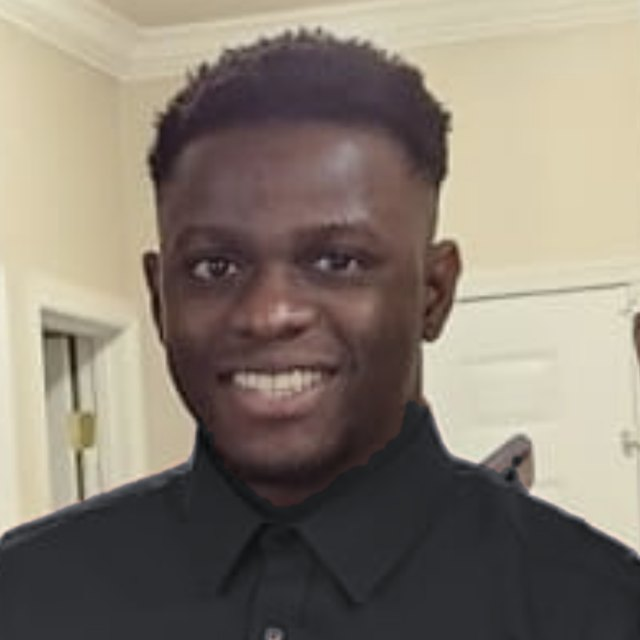
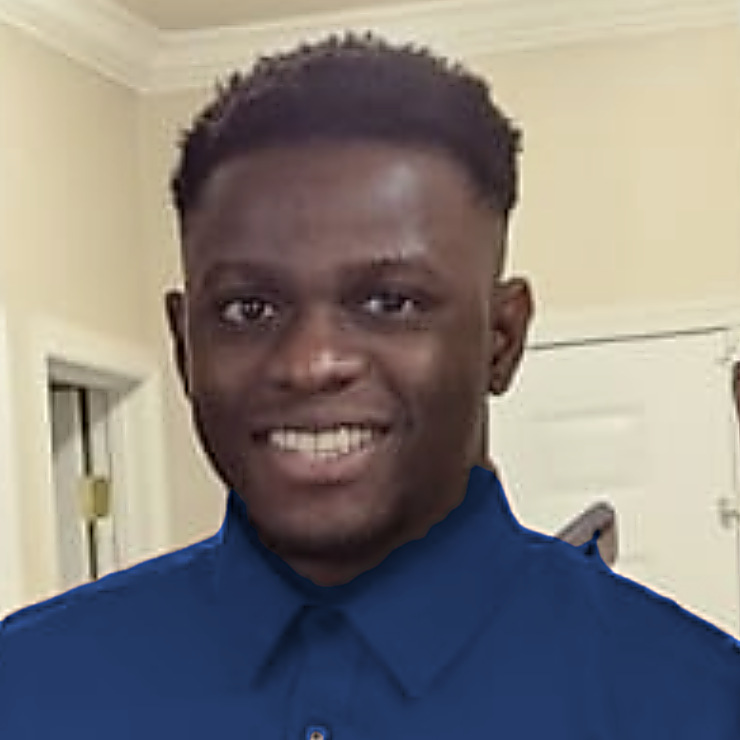
Return to black theme with orange accents; navy shirt; sharper portraits
- Hero and sections back to near-black with orange accents and circuit glow
- Shirt recolored navy (complement of orange) with smoothed, de-fringed edges
- Portraits kept at native resolution, denoised and sharpened, saved at q93 4:4:4

Claude-Session: https://claude.ai/code/session_01Hxmt1xBa9KbF397eNV9xSS

Changed region(s): [[0.0, 0.625, 1.0, 1.0]]

diff --git a/index.html b/index.html
@@ -36,25 +36,21 @@
 
   /* ---------- Hero ---------- */
   .hero{min-height:100vh;display:flex;align-items:center;padding:0 6%;gap:4rem;position:relative;overflow:hidden;
-        background:radial-gradient(circle at 75% 45%,#ffa552 0%,#ff7a1a 40%,#e85d00 100%);color:#111}
+        background:radial-gradient(circle at 75% 45%,rgba(255,122,26,.16) 0%,rgba(255,122,26,.04) 35%,transparent 60%),#0b0b0d;color:var(--text)}
   .hero>*:not(canvas){position:relative;z-index:1}
   .hero .scroll-hint{position:absolute}
   .hero-text{flex:1.3}
-  .hello{color:#3a1800;font-weight:600;letter-spacing:3px;text-transform:uppercase;font-size:.85rem}
+  .hello{color:var(--orange);font-weight:600;letter-spacing:3px;text-transform:uppercase;font-size:.85rem}
   .hero h1{font-size:clamp(2.4rem,6vw,4.5rem);line-height:1.1;margin:.6rem 0}
-  .hero h1 .accent{color:#111;text-shadow:0 4px 0 rgba(255,255,255,.25)}
-  .typed{font-size:clamp(1.1rem,2.4vw,1.5rem);color:#3a1800;min-height:2.2rem}
+  .hero h1 .accent{background:linear-gradient(90deg,var(--orange),var(--orange-2));-webkit-background-clip:text;background-clip:text;color:transparent}
+  .typed{font-size:clamp(1.1rem,2.4vw,1.5rem);color:var(--muted);min-height:2.2rem}
   .typed span{color:#fff;font-weight:600}
-  .cursor{display:inline-block;width:3px;background:#111;margin-left:3px;animation:blink 1s infinite}
+  .cursor{display:inline-block;width:3px;background:var(--orange);margin-left:3px;animation:blink 1s infinite}
   @keyframes blink{50%{opacity:0}}
-  .hero p.lead{max-width:560px;color:rgba(0,0,0,.78);font-weight:500;margin:1.2rem 0 2rem}
+  .hero p.lead{max-width:560px;color:var(--muted);margin:1.2rem 0 2rem}
   .btns{display:flex;gap:1rem;flex-wrap:wrap}
   .btn{padding:.85rem 1.8rem;border-radius:50px;font-weight:600;transition:.3s;border:2px solid var(--orange)}
   .btn.primary{background:var(--orange);color:#111}
-  .hero .btn.primary{background:#111;color:var(--orange-2);border-color:#111}
-  .hero .btn.primary:hover{background:#222;color:#ffb36b;box-shadow:0 10px 25px rgba(0,0,0,.3)}
-  .hero .btn.ghost{border-color:#111;color:#111}
-  .hero .btn.ghost:hover{background:rgba(0,0,0,.1)}
   .btn.primary:hover{background:var(--orange-2);transform:translateY(-3px);box-shadow:0 10px 25px rgba(255,122,26,.35)}
   .btn.ghost:hover{background:rgba(255,122,26,.12);transform:translateY(-3px)}
 
@@ -62,24 +58,24 @@
   .hero-visual{flex:1;display:flex;justify-content:center}
   .chip{position:relative;width:380px;height:380px}
   .chip .core{position:absolute;inset:20%;border-radius:24px;background:linear-gradient(145deg,#232329,#141417);
-      border:2px solid #111;display:flex;align-items:center;justify-content:center;
-      box-shadow:0 0 40px rgba(0,0,0,.35),inset 0 0 30px rgba(255,122,26,.15);animation:pulse 3s ease-in-out infinite}
+      border:2px solid var(--orange);display:flex;align-items:center;justify-content:center;
+      box-shadow:0 0 40px rgba(255,122,26,.35),inset 0 0 30px rgba(255,122,26,.15);animation:pulse 3s ease-in-out infinite}
   .chip .core .initials{font-family:'Orbitron';font-size:3.4rem;font-weight:900;color:var(--orange)}
   /* Replace the initials with a photo: <img src="me.jpg" alt="..."> */
   .chip .core img{width:100%;height:100%;object-fit:cover;border-radius:22px}
-  .chip .core.photo{inset:17%;border-radius:50%;overflow:hidden;padding:0;border:3px solid #111}
+  .chip .core.photo{inset:17%;border-radius:50%;overflow:hidden;padding:0;border:3px solid var(--orange)}
   .chip .core.photo img{border-radius:50%;transition:transform .6s}
   .chip:hover .core.photo img{transform:scale(1.06)}
   @keyframes pulse{50%{box-shadow:0 0 70px rgba(255,255,255,.45),inset 0 0 30px rgba(255,122,26,.3)}}
-  .pin{position:absolute;background:#111;border-radius:2px;opacity:.8}
-  .ring{position:absolute;inset:0;border:2px dashed rgba(0,0,0,.35);border-radius:50%;animation:spin 20s linear infinite}
+  .pin{position:absolute;background:var(--orange);border-radius:2px;opacity:.8}
+  .ring{position:absolute;inset:0;border:2px dashed rgba(255,122,26,.4);border-radius:50%;animation:spin 20s linear infinite}
   .ring.r2{inset:25px;border-style:dotted;animation-direction:reverse;animation-duration:14s}
   @keyframes spin{to{transform:rotate(360deg)}}
 
-  .scroll-hint{position:absolute;bottom:2rem;left:50%;transform:translateX(-50%);color:#3a1800;font-size:.8rem;
+  .scroll-hint{position:absolute;bottom:2rem;left:50%;transform:translateX(-50%);color:var(--muted);font-size:.8rem;
       display:flex;flex-direction:column;align-items:center;gap:.4rem}
-  .scroll-hint .mouse{width:22px;height:36px;border:2px solid #111;border-radius:12px;position:relative}
-  .scroll-hint .mouse::after{content:'';position:absolute;top:6px;left:50%;width:4px;height:8px;background:#111;
+  .scroll-hint .mouse{width:22px;height:36px;border:2px solid var(--orange);border-radius:12px;position:relative}
+  .scroll-hint .mouse::after{content:'';position:absolute;top:6px;left:50%;width:4px;height:8px;background:var(--orange);
       border-radius:2px;transform:translateX(-50%);animation:wheel 1.6s infinite}
   @keyframes wheel{to{transform:translate(-50%,12px);opacity:0}}
 
@@ -91,15 +87,7 @@
   .section-title .bar{width:70px;height:4px;background:var(--orange);margin:.8rem auto 0;border-radius:4px;position:relative;overflow:hidden}
   .section-title .bar::after{content:'';position:absolute;inset:0;width:20px;background:#fff;animation:slide 2s infinite}
   @keyframes slide{from{transform:translateX(-20px)}to{transform:translateX(70px)}}
-  .alt{background:linear-gradient(160deg,#ff8a2a 0%,#ff7a1a 50%,#ef6400 100%);color:#111}
-  .alt .section-title h2{color:#111}
-  .alt .section-title h2 span{color:#fff}
-  .alt .section-title .bar{background:#111}
-  .alt .about p{color:rgba(0,0,0,.8)}
-  .alt .about p strong{color:#000}
-  .alt .stat,.alt .skill-group,.alt .front{box-shadow:0 12px 30px rgba(0,0,0,.25);border-color:#2a2a31;color:var(--text)}
-  .alt .stat:hover{border-color:#111}
-  .alt .pills span{background:#111;color:var(--orange-2)}
+  .alt{background:#131316;border-top:1px solid #1f1f24;border-bottom:1px solid #1f1f24}
 
   /* Reveal on scroll */
   .reveal{opacity:0;transform:translateY(40px);transition:all .8s cubic-bezier(.2,.7,.2,1)}
@@ -111,7 +99,7 @@
   .about p strong{color:var(--text)}
   .about-side{display:flex;flex-direction:column;gap:1.5rem;align-items:center}
   .about-photo{position:relative;width:min(300px,80%);aspect-ratio:4/5;margin:0}
-  .about-photo::before{content:'';position:absolute;inset:0;border:3px solid #111;border-radius:22px;transform:translate(14px,14px);transition:transform .5s cubic-bezier(.2,.7,.2,1)}
+  .about-photo::before{content:'';position:absolute;inset:0;border:3px solid var(--orange);border-radius:22px;transform:translate(14px,14px);transition:transform .5s cubic-bezier(.2,.7,.2,1)}
   .about-photo img{position:relative;width:100%;height:100%;object-fit:cover;border-radius:22px;box-shadow:0 18px 40px rgba(0,0,0,.35);transition:transform .5s cubic-bezier(.2,.7,.2,1)}
   .about-photo:hover img{transform:translate(-6px,-6px) rotate(-1.5deg)}
   .about-photo:hover::before{transform:translate(20px,20px)}
@@ -177,7 +165,7 @@
   .hobby:nth-child(2n) .emoji{animation-delay:.5s} .hobby:nth-child(3n) .emoji{animation-delay:1s}
   @keyframes bob{50%{transform:translateY(-8px)}}
   .front h3{font-size:.95rem}
-  .back{background:#111;color:var(--orange-2);border-color:var(--orange)!important;transform:rotateY(180deg)}
+  .back{background:linear-gradient(145deg,var(--orange),var(--orange-dark));color:#111;transform:rotateY(180deg)}
   .back h3{font-size:.95rem;margin-bottom:.5rem}
   .back p{font-size:.85rem;font-weight:500}
 
@@ -192,9 +180,9 @@
 
   /* ---------- Project gallery ---------- */
   .filters{display:flex;flex-wrap:wrap;justify-content:center;gap:.6rem;margin:-1.5rem auto 2.5rem;max-width:900px}
-  .filters button{font:600 .85rem 'Inter',sans-serif;padding:.55rem 1.1rem;border-radius:30px;border:2px solid #111;background:transparent;color:#111;cursor:pointer;transition:.25s}
-  .filters button:hover{background:rgba(0,0,0,.1)}
-  .filters button.active{background:#111;color:var(--orange-2)}
+  .filters button{font:600 .85rem 'Inter',sans-serif;padding:.55rem 1.1rem;border-radius:30px;border:2px solid #34343c;background:transparent;color:var(--muted);cursor:pointer;transition:.25s}
+  .filters button:hover{border-color:var(--orange);color:var(--text)}
+  .filters button.active{background:var(--orange);border-color:var(--orange);color:#111}
   .gallery{display:grid;grid-template-columns:repeat(auto-fill,minmax(300px,1fr));gap:1.6rem;max-width:1200px;margin:auto}
   .proj{position:relative;border-radius:18px;overflow:hidden;cursor:pointer;background:#111;aspect-ratio:4/3;
         box-shadow:0 14px 34px rgba(0,0,0,.3);transition:transform .45s cubic-bezier(.2,.7,.2,1),opacity .4s,box-shadow .3s}
@@ -236,11 +224,7 @@
   @media(max-width:700px){.lb{padding:4rem .8rem 1.5rem}.lb .prev,.lb .next{top:auto;bottom:1rem;transform:none;width:42px;height:42px}.gallery{grid-template-columns:1fr}}
 
   /* Contact on orange */
-  .alt .contact p{color:rgba(0,0,0,.78)}
-  .alt .contact .btn.primary{background:#111;color:var(--orange-2);border-color:#111}
-  .alt .socials a{border-color:#111}
-  .alt .socials a:hover{background:rgba(0,0,0,.12)}
-  .alt .socials svg{fill:#111}
+
 
   footer{text-align:center;padding:2rem;color:var(--muted);font-size:.85rem;border-top:1px solid var(--line)}
   footer span{color:var(--orange)}
@@ -569,12 +553,12 @@ function pointAt(t,f){let L=lenOf(t)*f;for(let i=1;i<t.length;i++){const d=Math.
   if(L<=d){const r=L/d;return[t[i-1][0]+(t[i][0]-t[i-1][0])*r,t[i-1][1]+(t[i][1]-t[i-1][1])*r]}L-=d}return t[t.length-1]}
 function draw(){
   cx.clearRect(0,0,W,H);
-  cx.strokeStyle='rgba(0,0,0,.13)';cx.lineWidth=1.5;
+  cx.strokeStyle='rgba(255,122,26,.10)';cx.lineWidth=1.5;
   traces.forEach(t=>{cx.beginPath();cx.moveTo(...t[0]);t.forEach(p=>cx.lineTo(...p));cx.stroke();
-    cx.fillStyle='rgba(0,0,0,.25)';cx.beginPath();cx.arc(...t[t.length-1],3,0,7);cx.fill()});
+    cx.fillStyle='rgba(255,122,26,.3)';cx.beginPath();cx.arc(...t[t.length-1],3,0,7);cx.fill()});
   pulses.forEach(u=>{u.p+=u.v;if(u.p>1){u.p=0;u.t=traces[Math.floor(Math.random()*traces.length)]}
     const [x,y]=pointAt(u.t,u.p);const g=cx.createRadialGradient(x,y,0,x,y,8);
-    g.addColorStop(0,'rgba(255,255,255,.95)');g.addColorStop(1,'rgba(255,255,255,0)');
+    g.addColorStop(0,'rgba(255,165,82,.95)');g.addColorStop(1,'rgba(255,122,26,0)');
     cx.fillStyle=g;cx.beginPath();cx.arc(x,y,8,0,7);cx.fill()});
   requestAnimationFrame(draw);
 }
